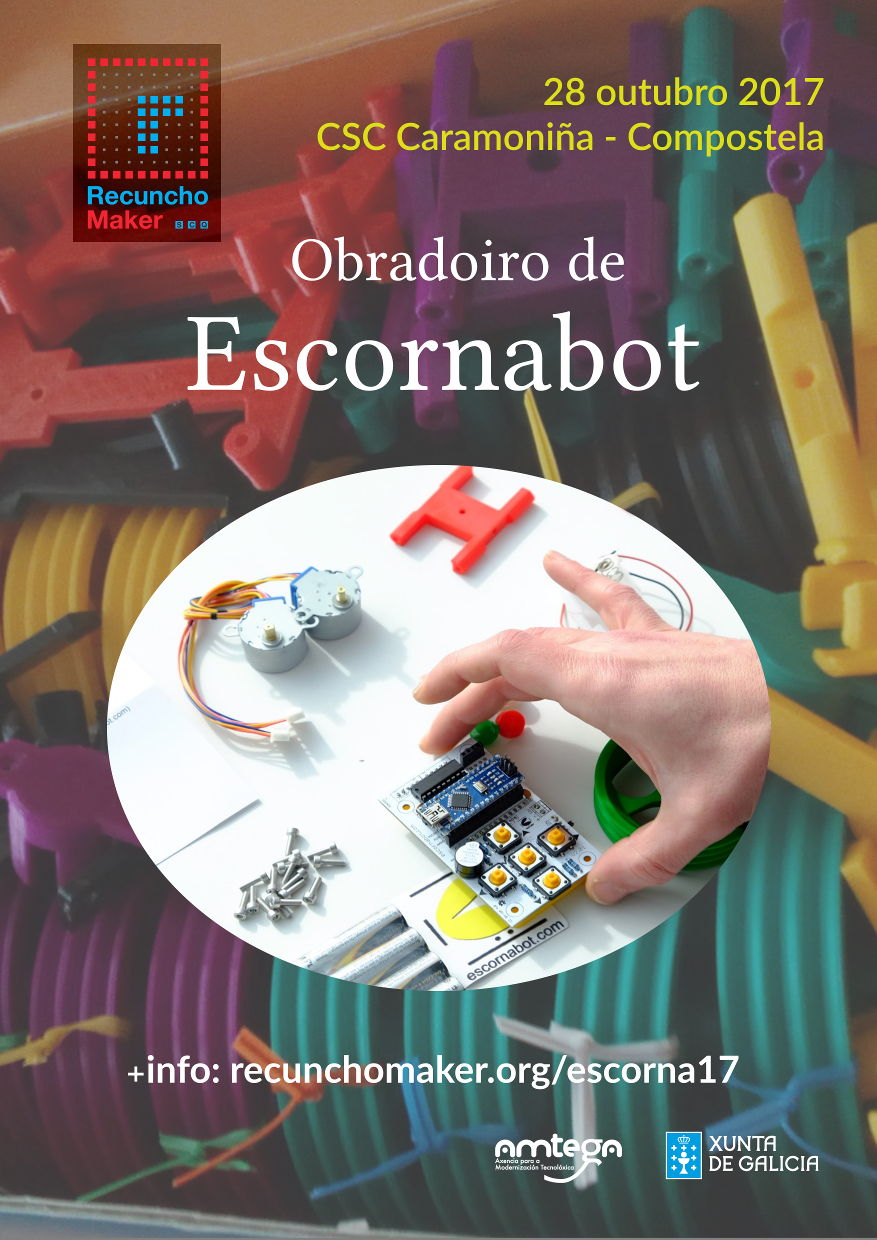
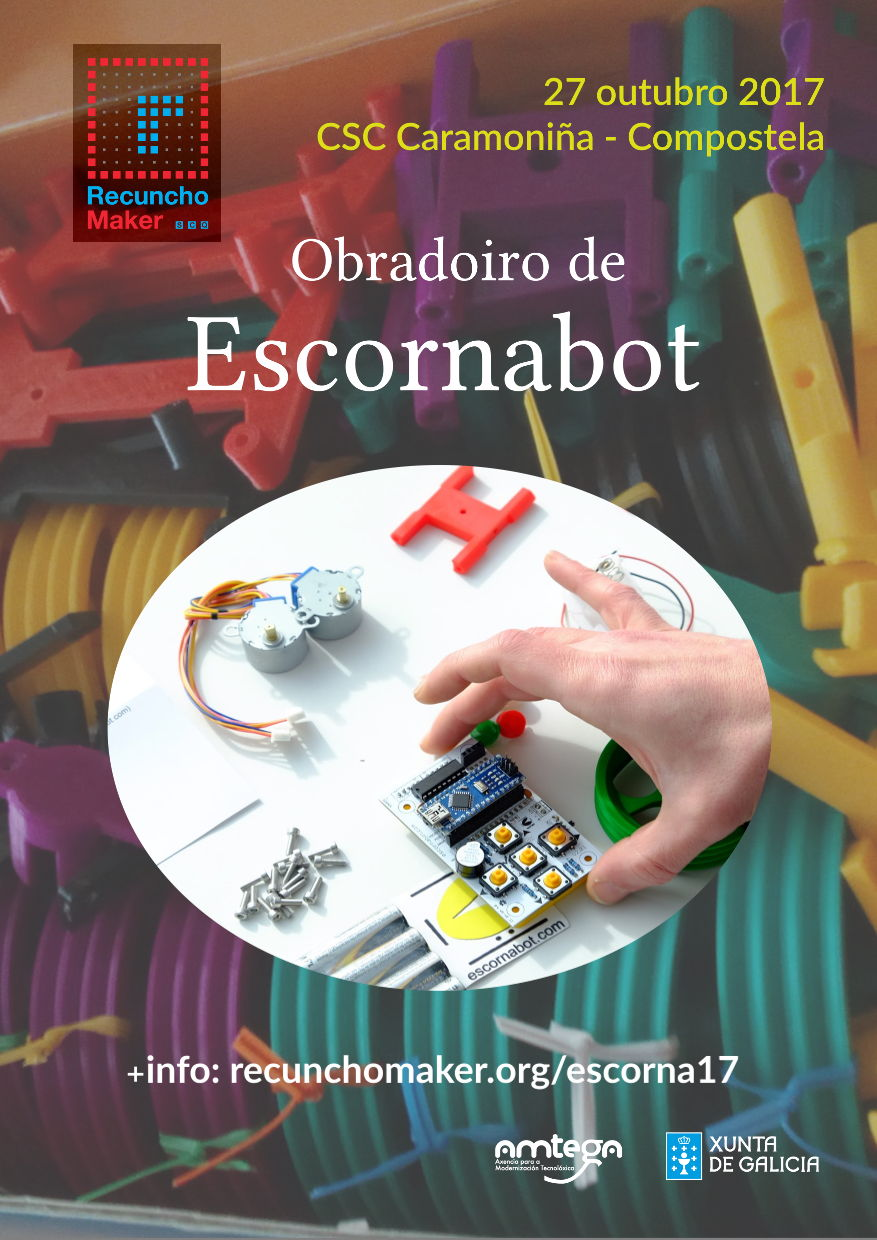
Cambio de data.

diff --git a/obradoiros/escorna17/README.md b/obradoiros/escorna17/README.md
@@ -2,7 +2,7 @@
 
 ![Cartel](https://raw.githubusercontent.com/RecunchoMaker/recunchomaker.github.io/master/obradoiros/escorna17/CartazEscornabot.jpg)
 
-O __sábado 28 de outubro de 2017 ás 17:00h__, no [Centro Socio-Cultural de Caramoniña (en Santiago de Compostela)](http://www.openstreetmap.org/way/401315389#map=18/42.88427/-8.53834),
+O __venres 27 de outubro de 2017 ás 17:00h__, no [Centro Socio-Cultural de Caramoniña (en Santiago de Compostela)](http://www.openstreetmap.org/way/401315389#map=18/42.88427/-8.53834),
 realizaremos, de balde para os inscritos, un obradoiro de montaxe do robot educativo Escornabot. A duración aproximada do 
 obradoiro é de 3 horas.
 
